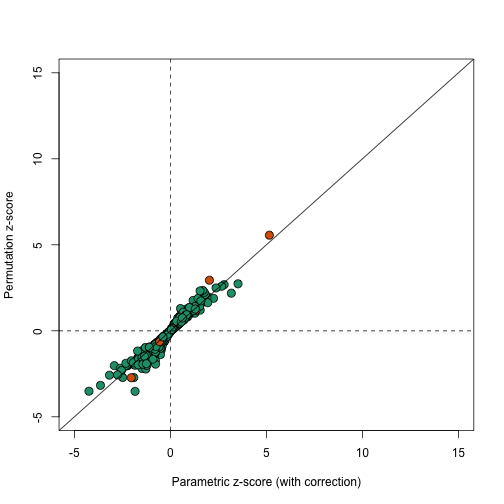
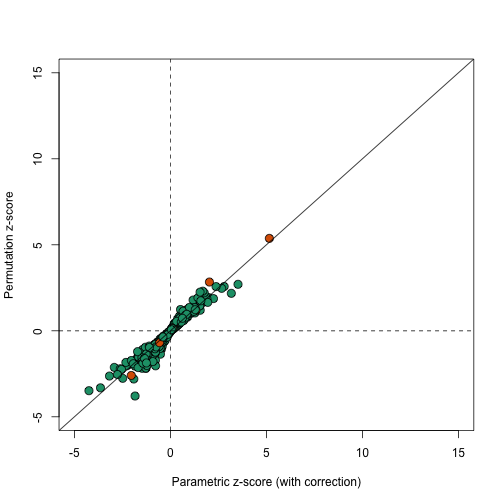
adding gene_set_analysis to book

Changed region(s): [[0.1786, 0.6548, 0.3274, 0.8036], [0.3274, 0.5357, 0.4762, 0.6548], [0.506, 0.4464, 0.5655, 0.4762]]

diff --git a/pages/gene_set_analysis.md b/pages/gene_set_analysis.md
@@ -153,7 +153,7 @@ e=ExpressionSet(assay=geneExpression,
                 phenoData=AnnotatedDataFrame(sampleInfo),
                 annotation="hgfocus")
 ##can safely ignore the warning
-gsids<-mapGMT2Affy(e,gsets) 
+gsids <- mapGMT2Affy(e,gsets) 
 ```
 
 ## Approaches based on association tests
@@ -395,25 +395,8 @@ When outcome of interest permits it and enough samples and are available an alte
 
 ```r
 library(matrixStats)
-```
-
-```
-## matrixStats v0.14.0 (2015-02-13) successfully loaded. See ?matrixStats for help.
-## 
-## Attaching package: 'matrixStats'
-## 
-## The following objects are masked from 'package:genefilter':
-## 
-##     rowSds, rowVars
-## 
-## The following objects are masked from 'package:Biobase':
-## 
-##     anyMissing, rowMedians
-```
-
-```r
 set.seed(1)
-B <- 10000 ##takes a few minutes
+B <- 400 ##takes a few minutes
 null <- sapply(1:B,function(b){
  nullX<- sample(X)
  nullsvaX<-model.matrix(~nullX+svafit$sv) ##note that we are not recomupting the surrogate values. 
@@ -422,26 +405,8 @@ null <- sapply(1:B,function(b){
  nullavgt <- sapply(gsids,function(i) sqrt(length(i))*mean(nulltt[i]))
  return(nullavgt)
 })
-```
-
-```
-## Error in sapply(gsids, function(i) sqrt(length(i)) * mean(nulltt[i])): error in evaluating the argument 'X' in selecting a method for function 'sapply': Error: object 'gsids' not found
-```
-
-```r
 permavgt <- avgt/rowSds(null)
-```
-
-```
-## Error in eval(expr, envir, enclos): object 'avgt' not found
-```
-
-```r
 permpval<- rowMeans(abs(avgt) < abs(null))
-```
-
-```
-## Error in is.data.frame(x): object 'avgt' not found
 ```
 
 In this case the results using permutations are very similar to the results using the parametric approach that uses the correction factor as can be seen in this comparison.
@@ -449,27 +414,11 @@ In this case the results using permutations are very similar to the results usin
 
 ```r
 plot(correctedavgt,permavgt,bg=cols,pch=21,xlab="Parametric z-score (with correction)",ylab="Permutation z-score",cex=1.5,ylim=c(-5,15),xlim=c(-5,15))
-```
-
-```
-## Error in plot(correctedavgt, permavgt, bg = cols, pch = 21, xlab = "Parametric z-score (with correction)", : error in evaluating the argument 'y' in selecting a method for function 'plot': Error: object 'permavgt' not found
-```
-
-```r
 abline(0,1)
-```
-
-```
-## Error in int_abline(a = a, b = b, h = h, v = v, untf = untf, ...): plot.new has not been called yet
-```
-
-```r
 abline(h=0,v=0,lty=2)
 ```
 
-```
-## Error in int_abline(a = a, b = b, h = h, v = v, untf = untf, ...): plot.new has not been called yet
-```
+![plot of chunk unnamed-chunk-18](figure/gene_set_analysis-unnamed-chunk-18-1.png) 
 
 We can see that the q-values are also comparable
 
@@ -478,22 +427,8 @@ We can see that the q-values are also comparable
 tab <- data.frame(avgt=p.adjust(signif(2*pnorm(1-abs(avgt)),2),method="BH"),
                   correctedavgt=p.adjust(signif(2*pnorm(1-abs(correctedavgt)),2),method="BH"),
                   permutations=p.adjust(permpval,method="BH"))
-```
-
-```
-## Error in p.adjust(permpval, method = "BH"): object 'permpval' not found
-```
-
-```r
 ##include only gene sets with 10 or more genes in comparison
 tab<-tab[N>=10,]
-```
-
-```
-## Error in tab[N >= 10, ]: (subscript) logical subscript too long
-```
-
-```r
 tab <- cbind(signif(tab,2),apply(tab,2,rank))
 tab<-tab[order(tab[,1]),]
 tab <- tab[tab[,1]< 0.25,]
@@ -501,7 +436,24 @@ tab
 ```
 
 ```
-##      FALSE TRUE FALSE TRUE
+##             avgt correctedavgt permutations avgt correctedavgt
+## chryp11  1.9e-60       1.5e-37         0.00    1             1
+## chryq11  4.2e-44       6.3e-02         0.00    2             3
+## chr6p22  1.4e-06       1.0e+00         0.72    3           124
+## chrxq13  1.8e-06       5.3e-03         0.00    4             2
+## chr17p13 6.5e-03       1.0e+00         0.00    5           124
+## chrxp11  3.6e-02       1.0e+00         0.70    6           124
+## chr20p13 5.6e-02       9.7e-02         0.00    7             4
+## chr4q35  9.7e-02       1.0e+00         0.41    8           124
+##          permutations
+## chryp11           4.0
+## chryq11           4.0
+## chr6p22          89.0
+## chrxq13           4.0
+## chr17p13          4.0
+## chrxp11          78.5
+## chr20p13          4.0
+## chr4q35          17.0
 ```
 
 One limitation of the permutation test approach is that to estimate very small p-values we need many permutations. For example, to distinguish between a p-value of $$10^{-5}$$ and $$10^{-6}$$ we would need to run 1,000,000 permutations. For those interested in applying conservative multiple comparison correction (such as the Bonferonni correction), it would be necessary to run many simulations. 
